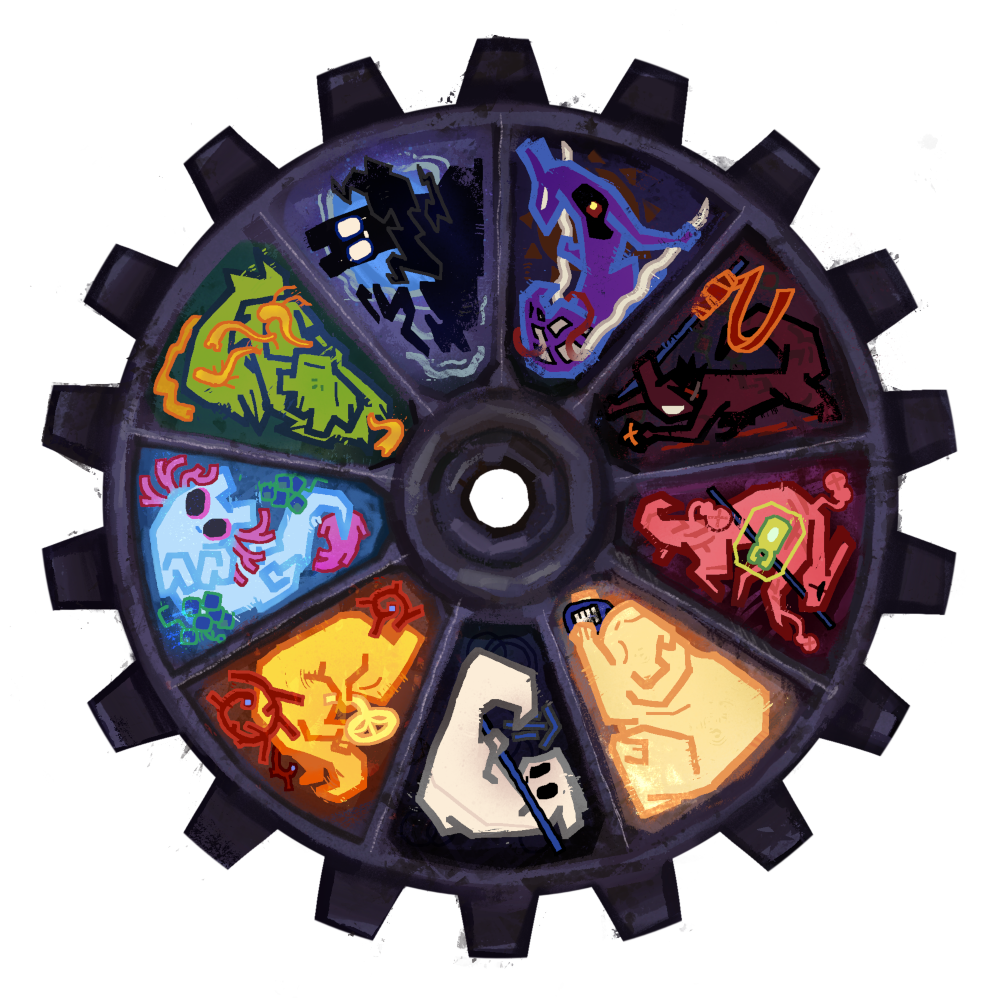
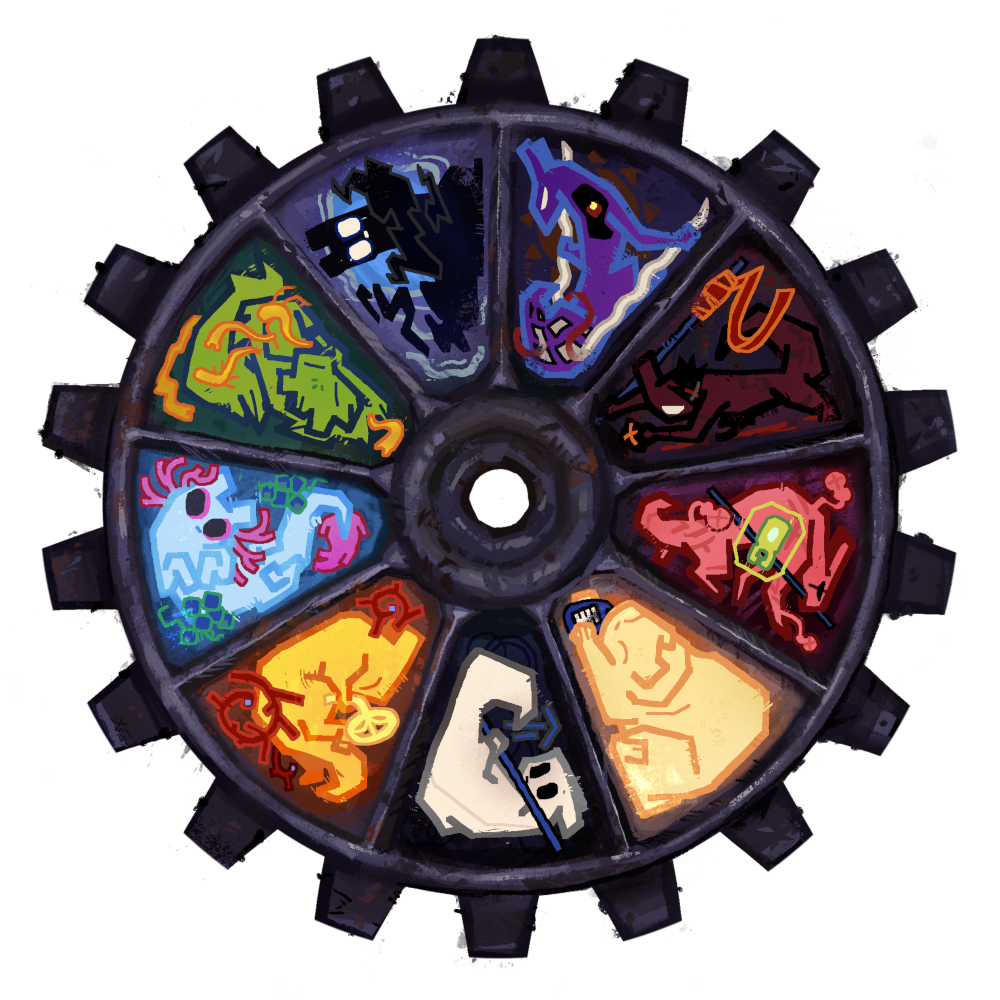
sprite update and rim layering

diff --git a/ScugWheel.js b/ScugWheel.js
@@ -78,6 +78,7 @@ const IdleAnimation = {
   'type': 'custom',
   'duration': 10,
   'easing': 'linear',
+  'callbackAfter' : drawOverWheel,
   'rotationAngle': 0,
   'propertyName': 'rotationAngle',
   'propertyValue': 360,
@@ -88,6 +89,7 @@ const RollAnimation = {
   'spins': 15,
   'duration': 15,
   'easing': 'customBack',
+  'callbackAfter' : drawOverWheel,
   'callbackFinished': scugSelection,
   'stopAngle': null,
   'repeat': 0
@@ -111,6 +113,12 @@ let theWheel = new Winwheel({
   'animation': IdleAnimation
 });
 
+let overWheel = new Winwheel({
+  'canvasId':'over',
+  'drawMode': 'image',
+  'wheelImage': "Scugs\\wheel_over.png",
+});
+
 let audioResult1 = new Audio('.\\Sfx\\Karma_KarmaPitchDiscovery.wav');
 let audioResult2 = new Audio('.\\Sfx\\Karma_capBell1.wav');
 let audioResult3 = new Audio('.\\Sfx\\Karma_GhostPingBase.wav');
@@ -119,13 +127,20 @@ audioResult2.volume = 0.2;
 audioResult3.volume = 0.2;
 let audioSpinQueue = [];
 let audioSpinState = 0;
-let loadedImg = new Image();
 
+let loadedImg = new Image();
 loadedImg.onload = function () {
   theWheel.wheelImage = loadedImg;    // Make wheelImage equal the loaded image object.
   theWheel.draw();                    // Also call draw function to render the wheel.
 }
 loadedImg.src = "wheel.png";
+
+let loadedImgOver = new Image();
+loadedImgOver.onload = function () {
+  overWheel.wheelImage = loadedImgOver;    // Make wheelImage equal the loaded image object.
+  overWheel.draw();                    // Also call draw function to render the wheel.
+}
+loadedImgOver.src = "wheel_over.png";
 
 addEventListener("load", () => {
   theWheel.startAnimation();
@@ -312,6 +327,14 @@ function resetSpin() {
   theWheel.startAnimation();
   document.getElementById("wheel").setAttribute('onclick', "spinWheel()");
   clicked = false;
+}
+
+function drawOverWheel () {
+  overWheel.rotationAngle = theWheel.rotationAngle;
+  let canvas = document.getElementById("over").getContext("2d");
+  canvas.clearRect(0, 0, 1000, 1000);
+  canvas.beginPath();
+  overWheel.draw(false);
 }
 
 function resizeImageSegments(wheel) {

diff --git a/index.html b/index.html
@@ -18,8 +18,8 @@
   <main id="totalScreen">
     <div id="overlay"></div>
     <div id='wheel' onclick="spinWheel(true)">
-      <canvas id="bg" width="1000" height="1000">Canvas not supported, use another browser.</canvas>
       <canvas id="canvas" width="1000" height="1000">Canvas not supported, use another browser.</canvas>
+      <canvas id="over" width="1000" height="1000">Canvas not supported, use another browser.</canvas>
       <div id="result" onclick="closeResult()">
         <p id="resultText"></p>
         <img src="" id="scugResult" />